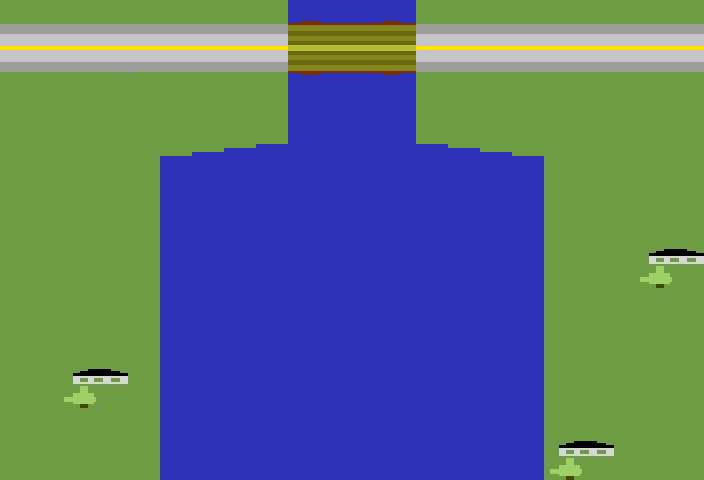
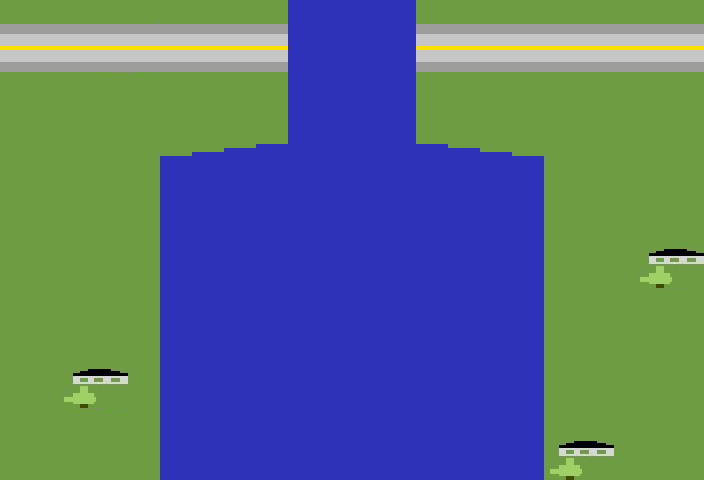
wip

Changed region(s): [[0.4062, 0.0312, 0.5938, 0.1562]]

diff --git a/main.py b/main.py
@@ -50,8 +50,10 @@ fuel = pygame.image.load("images/fuel.png")
 
 bullet = pygame.image.load("images/bullet.png")
 bullets = []
-cooldown = 20
-cooldown_counter = 0
+
+
+bridge_image = pygame.image.load("images/bridge.png")
+
 
 start = True
 
@@ -158,6 +160,10 @@ def check_collision(enemies_list):
         pygame.display.update()
         if player_hitbox.colliderect(enemy_rect):
             return True
+     if len(bridge) != 0:
+        for i in bridge:
+            if player_hitbox.colliderect(i):
+                return True
 
 def check_fuel():
     global fuel_x
@@ -196,8 +202,9 @@ def redrawWindow():
         pygame.draw.rect(screen,(255,0,0),rect,2)
     for rect in curr_rects_off:
         pygame.draw.rect(screen,(255,0,0),rect,2)
-    for i in bridge:
-        pygame.draw.rect(screen,(255,0,0),i,2)
+    if len(bridge) > 0:
+        for i in bridge:
+            screen.blit(bridge_image, i)
     screen.blit(text_image, (20,515))
     text_image = myfont.render("Score: {}".format(score), True, (252,252,84))
     pygame.display.update()
@@ -320,8 +327,8 @@ def bullet_collision():
                 removed = True
         for br in bridge:
             if bullet_rect.colliderect(br) and not removed:
-                tmp = bridges.keys().index(br)
-                checkpoint = bridges.values(tmp)
+                score += 500
+                bullets.remove(bullet)
                 bridge.remove(br)
                 removed = True
                 
@@ -386,6 +393,9 @@ while True:
         if player_hitbox.colliderect(rect):
             pygame.quit()
             quit()
+    if len(bridge) > 0:
+        for i in bridge:
+            i.move_ip(0,scroll_speed)
 
     #move fuel pointer
     fuel_x -= 0.125
